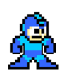
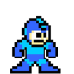
Add sprites for shooting (standing and jumping), though still need to handle in code; resize all mighty man sprites 70x70 -> 74x74; change photon from yellow ellipse -> white round

Changed region(s): [[0.1143, 0.1714, 0.8571, 1.0]]

diff --git a/MightyMan/BSMightyMan.m b/MightyMan/BSMightyMan.m
@@ -42,7 +42,7 @@ static CGSize spriteSize;
     
     mightyMan.position = CGPointMake(60, 70);
     
-    spriteSize = CGSizeMake(70, 70);
+    spriteSize = CGSizeMake(74, 74);
     mightyMan.size = spriteSize;
     mightyMan.name = @"MightyMan";
     mightyMan.zPosition = 1.0;
@@ -93,9 +93,9 @@ static CGSize spriteSize;
         
         SKAction *jumping = [SKAction animateWithTextures:self.jumpingFrames
                                              timePerFrame:1.3
-                             
                                                    resize:YES
                                                   restore:YES];
+        
         SKAction *stop = [SKAction runBlock:^{
             self.jumping = NO;
             
@@ -110,7 +110,11 @@ static CGSize spriteSize;
 }
 
 - (void) performShoot {
-    NSLog(@"DEBUG: pow!");
+    if (self.jumping) {
+        
+    } else {
+        
+    }
 }
 
 @end

diff --git a/MightyMan/BSMyScene.m b/MightyMan/BSMyScene.m
@@ -30,6 +30,8 @@ static const uint32_t GroundCategory = 0x1 << 1;
 static const float ScreenLeftRightSplitPos = 250.0;
 static const float ScreenTopBottomSplitPos = 125.0;
 
+// = = = = = = = = = = = = = = = = = = = = = = = = = = = = = = = = = = = = = = = = = =
+
 #pragma mark - SKScene methods
 
 -(void)update:(NSTimeInterval)currentTime {
